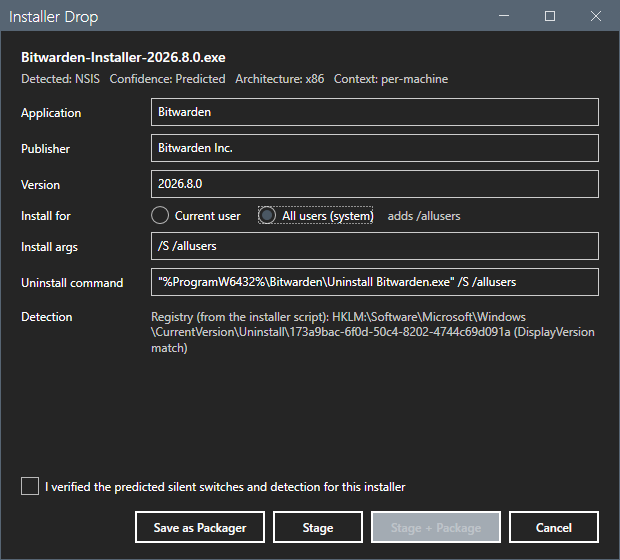
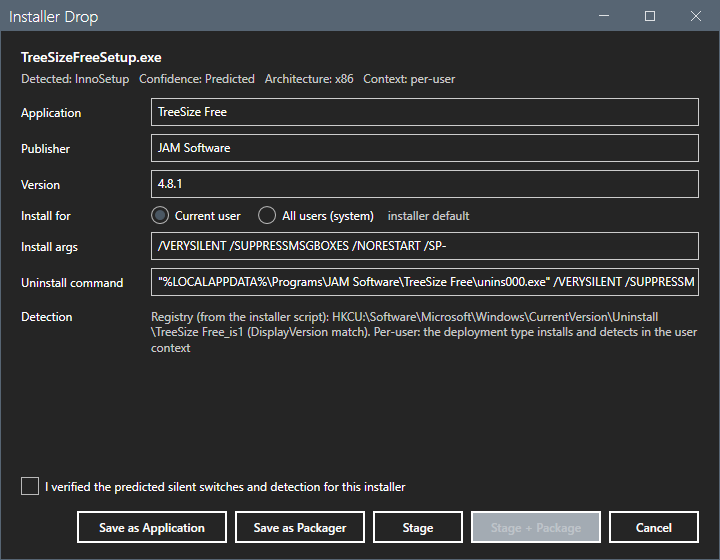
Move the site condition names into the workbench and remove the Deployment Conditions options panel; widen the Installer Drop dialog; refresh screenshots; 1.6.0.1

diff --git a/WorkbenchWindow.xaml b/WorkbenchWindow.xaml
@@ -490,6 +490,9 @@
                         <RowDefinition Height="Auto"/>
                         <RowDefinition Height="Auto"/>
                         <RowDefinition Height="*"/>
+                        <RowDefinition Height="Auto"/>
+                        <RowDefinition Height="Auto"/>
+                        <RowDefinition Height="Auto"/>
                     </Grid.RowDefinitions>
 
                     <TextBlock Grid.Row="0" Style="{StaticResource WbNote}"
@@ -499,7 +502,7 @@
                         <TextBlock DockPanel.Dock="Left" Text="Requirement operations" Style="{StaticResource WbHeading}" Margin="0"/>
                         <StackPanel DockPanel.Dock="Right" Orientation="Horizontal">
                             <ComboBox x:Name="cboReqTemplate" Width="200" FontSize="11" Height="24" Margin="0,0,6,0"
-                                      ToolTip="Condition templates come from Options; the workbench attaches them per application."/>
+                                      ToolTip="Site conditions, named below; a rule attaches one to this application."/>
                             <Button x:Name="btnReqAdd" Content="Add" Style="{StaticResource WbSmallButton}" MinWidth="60"/>
                             <Button x:Name="btnReqReplace" Content="Replace" Style="{StaticResource WbSmallButton}" MinWidth="70"/>
                             <Button x:Name="btnReqRemove" Content="Remove" Style="{StaticResource WbSmallButton}" MinWidth="70"/>
@@ -548,6 +551,34 @@
                             <DataGridTextColumn Header="Maximum" Width="80" Binding="{Binding Maximum}"/>
                         </DataGrid.Columns>
                     </DataGrid>
+
+                    <TextBlock Grid.Row="6" Text="Site condition names" Style="{StaticResource WbHeading}" Margin="0,12,0,4"/>
+                    <TextBlock Grid.Row="7" Style="{StaticResource WbNote}"
+                               Text="Shared by every application. A rule attaches to the site global condition with this name, creating it on first use; change a name to reuse a condition your site already has. Saved when a field loses focus."/>
+                    <Grid Grid.Row="8" Margin="0,0,0,6">
+                        <Grid.ColumnDefinitions>
+                            <ColumnDefinition Width="Auto" MinWidth="180"/>
+                            <ColumnDefinition Width="*"/>
+                        </Grid.ColumnDefinitions>
+                        <Grid.RowDefinitions>
+                            <RowDefinition Height="Auto"/>
+                            <RowDefinition Height="Auto"/>
+                            <RowDefinition Height="Auto"/>
+                            <RowDefinition Height="Auto"/>
+                        </Grid.RowDefinitions>
+                        <TextBlock Grid.Row="0" Grid.Column="0" Text="CPU architecture condition" Style="{StaticResource WbLabel}"/>
+                        <TextBox   Grid.Row="0" Grid.Column="1" x:Name="txtSiteArchGc" FontSize="11" Height="24" Margin="0,0,0,6"
+                                   ToolTip="Site global condition name for the WQL query on Win32_Processor.Architecture (9 = x64, 12 = ARM64)"/>
+                        <TextBlock Grid.Row="1" Grid.Column="0" Text="OS language condition" Style="{StaticResource WbLabel}"/>
+                        <TextBox   Grid.Row="1" Grid.Column="1" x:Name="txtSiteLangGc" FontSize="11" Height="24" Margin="0,0,0,6"
+                                   ToolTip="Name of the built-in Operating System Language site condition. Must already exist on the site."/>
+                        <TextBlock Grid.Row="2" Grid.Column="0" Text="VPN condition" Style="{StaticResource WbLabel}"/>
+                        <TextBox   Grid.Row="2" Grid.Column="1" x:Name="txtSiteVpnGc" FontSize="11" Height="24" Margin="0,0,0,6"
+                                   ToolTip="Site global condition name for the script that reports whether a VPN adapter is active"/>
+                        <TextBlock Grid.Row="3" Grid.Column="0" Text="VPN adapter patterns" Style="{StaticResource WbLabel}"/>
+                        <TextBox   Grid.Row="3" Grid.Column="1" x:Name="txtSiteVpnPatterns" FontSize="11" Height="24"
+                                   ToolTip="Comma-separated adapter description substrings that identify a VPN client. Applied when the condition is next created; an existing site condition keeps its script."/>
+                    </Grid>
                 </Grid>
 
                 <!-- ================= Timing and execution ================= -->

diff --git a/README.md b/README.md
@@ -5,7 +5,7 @@
 [![Platform](https://img.shields.io/badge/platform-Windows-0078D4)](#prerequisites)
 [![License](https://img.shields.io/github/license/jasonulbright/app-packager)](LICENSE)
 
-Automated application packaging for MECM and Intune: 284 enterprise applications, each one click from vendor download to deployed app. AppPackager checks the vendor for the latest version, downloads and verifies the installer, generates silent install/uninstall wrappers and detection rules, and creates the MECM Application — or builds the `.intunewin` and publishes it to Intune via Graph, no ConfigMgr site required. Drag any unknown `.msi`/`.exe` onto the window and it analyzes and packages that too. A companion version monitor flags stale deployments and looks up their CVEs. Built entirely in PowerShell 5.1 — the version that ships in the box on every supported Windows release, oldest to newest. Nothing to install, no add-ons, no agents, no subscription.
+Automated application packaging for MECM and Intune: 283 enterprise applications, each one click from vendor download to deployed app. AppPackager checks the vendor for the latest version, downloads and verifies the installer, generates silent install/uninstall wrappers and detection rules, and creates the MECM Application — or builds the `.intunewin` and publishes it to Intune via Graph, no ConfigMgr site required. Drag any unknown `.msi`/`.exe` onto the window and it analyzes and packages that too. A companion version monitor flags stale deployments and looks up their CVEs. Built entirely in PowerShell 5.1 — the version that ships in the box on every supported Windows release, oldest to newest. Nothing to install, no add-ons, no agents, no subscription.
 
 This is the class of work commercial third-party patching catalogs sell as a subscription. AppPackager covers a comparable application set — the coverage decision for each of 933 reviewed catalog entries is documented in [CATALOG-PARITY.csv](CATALOG-PARITY.csv) — runs entirely inside your environment, and is MIT-licensed.
 
@@ -28,7 +28,7 @@ Installs the latest release into `%LOCALAPPDATA%\AppPackager`. Only a zip crosse
 On an unrestricted network, the installer can do the whole flow itself — resolve the release from the GitHub API, download, verify SHA-256, extract:
 
 ```powershell
-curl.exe -Lso "$env:TEMP\ap.zip" https://github.com/jasonulbright/app-packager/releases/latest/download/AppPackager.zip; Expand-Archive "$env:TEMP\ap.zip" "$env:TEMP\ap-setup" -Force; & "$env:TEMP\ap-setup\install.ps1" -InstallPath 'D:\Tools\AppPackager' -Version 1.6.0.0
+curl.exe -Lso "$env:TEMP\ap.zip" https://github.com/jasonulbright/app-packager/releases/latest/download/AppPackager.zip; Expand-Archive "$env:TEMP\ap.zip" "$env:TEMP\ap-setup" -Force; & "$env:TEMP\ap-setup\install.ps1" -InstallPath 'D:\Tools\AppPackager' -Version 1.6.0.1
 ```
 
 Omitting `-ZipPath` makes it download and checksum-verify the requested release; `-InstallPath` picks the folder and `-Version` pins a release. `-Force` is required to replace a non-empty folder that holds no existing AppPackager install. If even the curl download is blocked, fetch the zip in a browser and run the same `-ZipPath` command against it.
@@ -148,27 +148,13 @@ CWA switches persist to `Packagers/citrix-workspace-switches.json`; TeamViewer H
 
 **Product Filter** — show or hide individual packager scripts in the main grid, grouped by vendor in a checkbox TreeView with Select All / Select None helpers. Hidden applications persist to `AppPackager.preferences.json`. On the first Check MECM run, the tool offers to auto-hide applications not found in your MECM environment.
 
-**Deployment Conditions** — the condition templates and environment defaults behind the requirement rules each Package run attaches to the deployment type. The client evaluates requirement rules at deployment evaluation time, so no collections (and no collection-evaluation load) are involved. Per-app rules are edited in the [Application Workbench](#application-workbench); this panel keeps the site-level condition names and VPN adapter patterns and shows the legacy per-app map read-only with an **Open in Workbench** button. Three conditions ship:
+**Deployment Conditions** — requirement rules are optional and off for every application until you add one in the [Application Workbench](#application-workbench) under Requirements & variants. The client evaluates them at deployment evaluation time, so no collections are involved. Three site conditions ship, matched by name so a condition your site already has is reused; their names and the VPN adapter patterns are edited in that same section and persist to `Packagers/condition-templates.json`:
 
 - **Architecture** — `Any` / `x64 only` / `ARM64 only`, backed by a WQL global condition on `Win32_Processor.Architecture` (9 = x64, 12 = ARM64). The numeric property compares identically on every OS language, and unlike the OS-platform requirement list it needs no update when a new Windows version releases.
 - **OS languages** — comma-separated culture codes (e.g. `de-DE, en-US`) mapped onto the site's built-in Operating System Language condition with a OneOf rule. Useful when a packaged build is single-language and MUI or English builds are deployed separately.
 - **Network** — `Any` / `VPN only` / `On-site only`, backed by a Boolean script global condition that reports whether an IP-enabled adapter description matches a configurable VPN client pattern list (or an interface alias contains `vpn`). `VPN only` suits a small CDN-sourced deployment that should avoid pulling large content over the tunnel; `On-site only` suits its full-content counterpart.
 
-![Deployment Conditions](screenshots/deployment-conditions.png)
-
-The per-app columns below describe settings that are now edited in the workbench, one application at a time; the environment JSON the packager child receives is unchanged.
-
-A **Variant split** column offers multi-deployment-type staging where a packager declares it with a `SupportsVariants:` header tag (`Architecture`, `Language`, `Network`): one application, one deployment type per variant, each gated by its own requirement rules with an unconditional fallback last. The selection reaches the packager as `APP_PACKAGER_VARIANTS` environment JSON; packagers without the tag keep the single-deployment-type flow and the column stays disabled.
-
-An **Install for** column (`Default`, `System`, `User`) appears for packagers that declare `SupportsInstallModes:` in their header, which means the installer takes a mode switch (NSIS `/allusers` and `/currentuser`, Inno Setup `/ALLUSERS` and `/CURRENTUSER`). `Default` keeps the packager's own mode. Choosing the other mode rewrites the staged package from that mode's branch of the installer: the switch in the install and uninstall arguments, the uninstaller path, the detection hive, view and folder, and the deployment type's install behavior (`InstallForUser` with a logged-on-user requirement for `User`). The choice reaches the Stage phase as `APP_PACKAGER_INSTALL_MODE`; a Stage that cannot honor it fails instead of staging the wrong mode.
-
-A **Commands** column opens the per-app command override editor: edit the install and uninstall command lines the deployment type will carry, against watermarked shipped defaults, with one-click revert per field. The button label reads Default or Modified so overridden apps are visible at a glance. Overrides reach the packager as `APP_PACKAGER_COMMANDS` environment JSON, are recorded in the stage manifest, and an explicit override always beats the manifest's generated command.
-
 Before copying content or changing MECM, Package and One Click Stage-and-Package check the exact application title and ask **Overwrite**, **Skip**, or **Cancel run** if it already exists, even at a different version. Overwrite replaces deployment types while keeping the application and its deployments. Skip leaves it unchanged; Cancel stops the remaining run. **Do this for all remaining conflicts** applies only to the current run.
-
-Under **Options > Deployment Conditions > Application title**, choose per app: **Packager default**, **Include version** (separate applications per release), or **No version** (one perpetual application, useful for browsers). Versionless updates still ask before overwriting. Content folders and detection remain versioned. Changing the setting does not rename or migrate existing applications or deployments; choose the desired naming before establishing a perpetual deployment. Software Center display-name overrides are unchanged.
-
-Global conditions are created on the site the first time a rule needs them and are matched by name, so changing a condition's name in the panel attaches to a condition the site already has instead of creating a duplicate. A signed or changed script condition gets its own name carrying a short content hash, so an existing condition is never rewritten under another application's feet. The panel's per-app grid persists to `AppPackager.preferences.json`; condition names and VPN adapter patterns persist to `Packagers/condition-templates.json` (built-in defaults apply until the panel writes it). Selections apply on Package and One Click Stage-and-Package runs, and requirement resolution fails the run before anything is created when a rule can't be built — a package never silently ships without the rules configured for it.
 
 **Script Signing** — Authenticode signing for the scripts AppPackager stages.
 
@@ -195,6 +181,14 @@ Fine-tune any packager without editing its script. Open it from the sidebar, or 
 - Profiles live under `%LOCALAPPDATA%\AppPackagerData\Workbench`, outside the install folder, so updates never touch them.
 - One Click rebuilds an application when its vendor version, profile or signing policy changed.
 - The same build runs from the command line through `Invoke-AppPackagerBuild.ps1`, see [Command Line](#command-line).
+
+**Requirements & variants** — attach any of the three site conditions to the application. A **Variant split** is offered where the packager declares `SupportsVariants:` (`Architecture`, `Language`, `Network`): one application, one deployment type per variant, each gated by its own rule with an unconditional fallback last; the selection reaches the packager as `APP_PACKAGER_VARIANTS`. **Install for** (`Default`, `System`, `User`) is offered where the packager declares `SupportsInstallModes:`, meaning the installer takes a mode switch (NSIS `/allusers` and `/currentuser`, Inno Setup `/ALLUSERS` and `/CURRENTUSER`). Choosing the other mode rewrites the staged package from that mode's branch: the switch in the install and uninstall arguments, the uninstaller path, the detection hive, view and folder, and the deployment type's install behavior. The choice reaches the Stage phase as `APP_PACKAGER_INSTALL_MODE`; a Stage that cannot honor it fails instead of staging the wrong mode.
+
+**Install & uninstall** — the install and uninstall command lines the deployment type will carry, against the shipped defaults with a per-field reset. Overrides reach the packager as `APP_PACKAGER_COMMANDS`, are recorded in the stage manifest, and an explicit override always beats the manifest's generated command.
+
+**Application title** — **Packager default**, **Include version** (separate applications per release), or **No version** (one perpetual application, useful for browsers). Versionless updates still ask before overwriting. Content folders and detection remain versioned. Changing the setting does not rename or migrate existing applications or deployments; choose the naming before establishing a perpetual deployment.
+
+Global conditions are created on the site the first time a rule needs them. A signed or changed script condition gets its own name carrying a short content hash, so an existing condition is never rewritten under another application's feet. Requirement resolution fails the run before anything is created when a rule can't be built — a package never silently ships without the rules configured for it.
 
 ### Sidebar comment and toggles
 
@@ -281,9 +275,9 @@ All packager scripts accept the same core parameters:
 | `-OnExisting` | Passed through to `New-MECMApplicationFromManifest`: `Skip` / `Overwrite` / `Fail`. Outranks `APP_PACKAGER_ON_EXISTING`; unset falls through to that variable and then to `Skip` |
 | `-LogPath` | Path to a structured log file (timestamps + severity levels) |
 
-## Supported Applications (284)
+## Supported Applications (283)
 
-All 284 packagers parse cleanly, expose the standard `-GetLatestVersionOnly` / `-StageOnly` / `-PackageOnly` contract, and generate ASCII install/uninstall wrappers. Packagers whose CMName omits the version (by design) reuse the same MECM Application across versions: when the packaged `SoftwareVersion` differs from the existing application's, the Package phase replaces the deployment type (new one is created under a staging name, the old one removed, then renamed — a deployed application refuses to drop its last deployment type) and updates the application's version; an unchanged version remains an idempotent no-op.
+All 283 packagers parse cleanly, expose the standard `-GetLatestVersionOnly` / `-StageOnly` / `-PackageOnly` contract, and generate ASCII install/uninstall wrappers. Packagers whose CMName omits the version (by design) reuse the same MECM Application across versions: when the packaged `SoftwareVersion` differs from the existing application's, the Package phase replaces the deployment type (new one is created under a staging name, the old one removed, then renamed — a deployed application refuses to drop its last deployment type) and updates the application's version; an unchanged version remains an idempotent no-op.
 
 The catalog grew from 108 to 284 across releases 1.4.0.16–1.4.0.24 by porting every viable entry from a 933-application enterprise catalog review. [CATALOG-PARITY.csv](CATALOG-PARITY.csv) records the disposition and reasoning for all 933 entries — what was added, what was already covered, and why each skipped application was skipped (licensed suites, managed agents, end-of-life products, download walls, component libraries, and niche tools, each with evidence). Every packager is verified at stage level with installer magic-byte checks before content is accepted; a core set is additionally end-to-end validated against a live MECM site.
 
@@ -592,7 +586,7 @@ The monitor discovers all `package-*.ps1` scripts in the sibling `Packagers/` fo
 
 | Feature | Details |
 |---|---|
-| **Packager discovery** | Auto-discovers every `package-*.ps1` script (284 today) via relative path |
+| **Packager discovery** | Auto-discovers every `package-*.ps1` script (283 today) via relative path |
 | **Version checking** | Calls each packager with `-GetLatestVersionOnly` |
 | **MECM comparison** | Queries ConfigMgr for deployed versions |
 | **NVD CVE lookup** | Queries NIST NVD API for stale apps with CPE headers |
@@ -792,7 +786,7 @@ app-packager/
     AppPackagerWorkbench.psd1        # Module manifest
     AppPackagerSigning.psm1          # Authenticode signing of staged scripts and launchers
     AppPackagerSigning.psd1          # Module manifest
-    package-7zip.ps1                 # One script per application (284 total)
+    package-7zip.ps1                 # One script per application (283 total)
     package-chrome.ps1
     ...
     Templates/                       # Skeleton packagers for non-standard installer formats

diff --git a/Tests/README.md b/Tests/README.md
@@ -98,7 +98,7 @@ No test writes to a certificate trust store in any scope. `SigningCombinations.T
 - `Invoke-TeamViewerHostVersionSmoke.ps1` - TeamViewer Host version read from the version resource fixed block when the string table is empty.
 - `Invoke-WorkbenchSmoke.ps1` - Application Workbench window build, population, validation and unsaved-switch paths.
 - `Invoke-SigningOptionsSmoke.ps1` - the Options script-signing panel, its certificate picker and its test button.
-- `Invoke-TitleOptionsSmoke.ps1` - the read-only per-app deployment-conditions view and the title-mode options.
+- `Invoke-TitleOptionsSmoke.ps1` - stored title-mode choices reach the background context map.
 - `Invoke-FullRegression.ps1` - runs every offline stage on both hosts and prints one summary table.
 - `PackagerSmoke.Tests.ps1` - Pester wrapper around the smoke harness.
 - `PackageWorkflow.Tests.ps1` - title policy, package conflict preflight, profile precedence, legacy migration, per-profile stage isolation, build selection, run overrides, One Click freshness, and a CLI stage of an offline fixture packager compared against a GUI-equivalent run snapshot.
